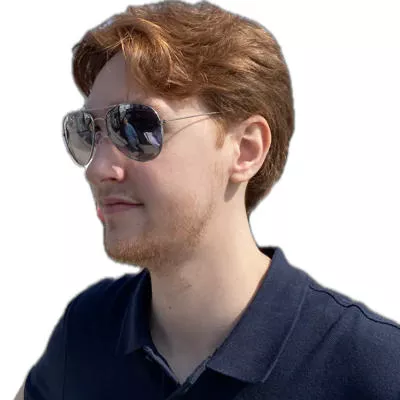
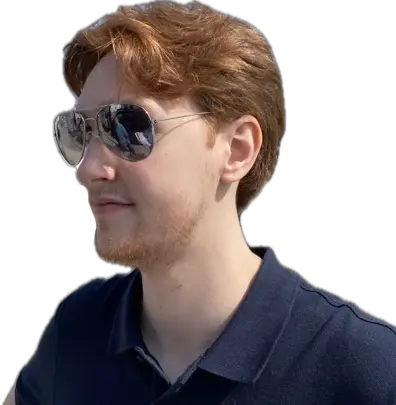
Content fixes
- updated images (cover images)
- profile pic
- removed unusued shortcode

diff --git a/content/es/resume.md b/content/es/resume.md
@@ -10,11 +10,9 @@ type: page
 
 {{< primary-skills >}}
 
-<!-- {{< secondary-skills >}} -->
-
 <p>Hola, soy Jack. Estoy en mi último año de universidad estudiando <b>BSc (Hons) Software Development</b>.</p>
 <ul style="padding-left: 35px; list-style: square;">
-    <li>2 años de experiencia en estudios.</li>
+    <li>2 años de experiencia en trabajo profesional.</li>
     <li>Colaboré con diversos equipos.</li>
     <li>Contribuí al lanzamiento exitoso de 3 productos.</li>
 </ul>

diff --git a/content/en/resume.md b/content/en/resume.md
@@ -10,8 +10,6 @@ type: page
 
 {{< primary-skills >}}
 
-<!-- {{< secondary-skills >}} -->
-
 <p>Hi, I'm Jack. I'm in my final year of university studying <b>BSc (Hons) Software Development</b>.</p>
 <ul style="padding-left: 35px; list-style: square;">
     <li>2 Years of studio experience.</li>
